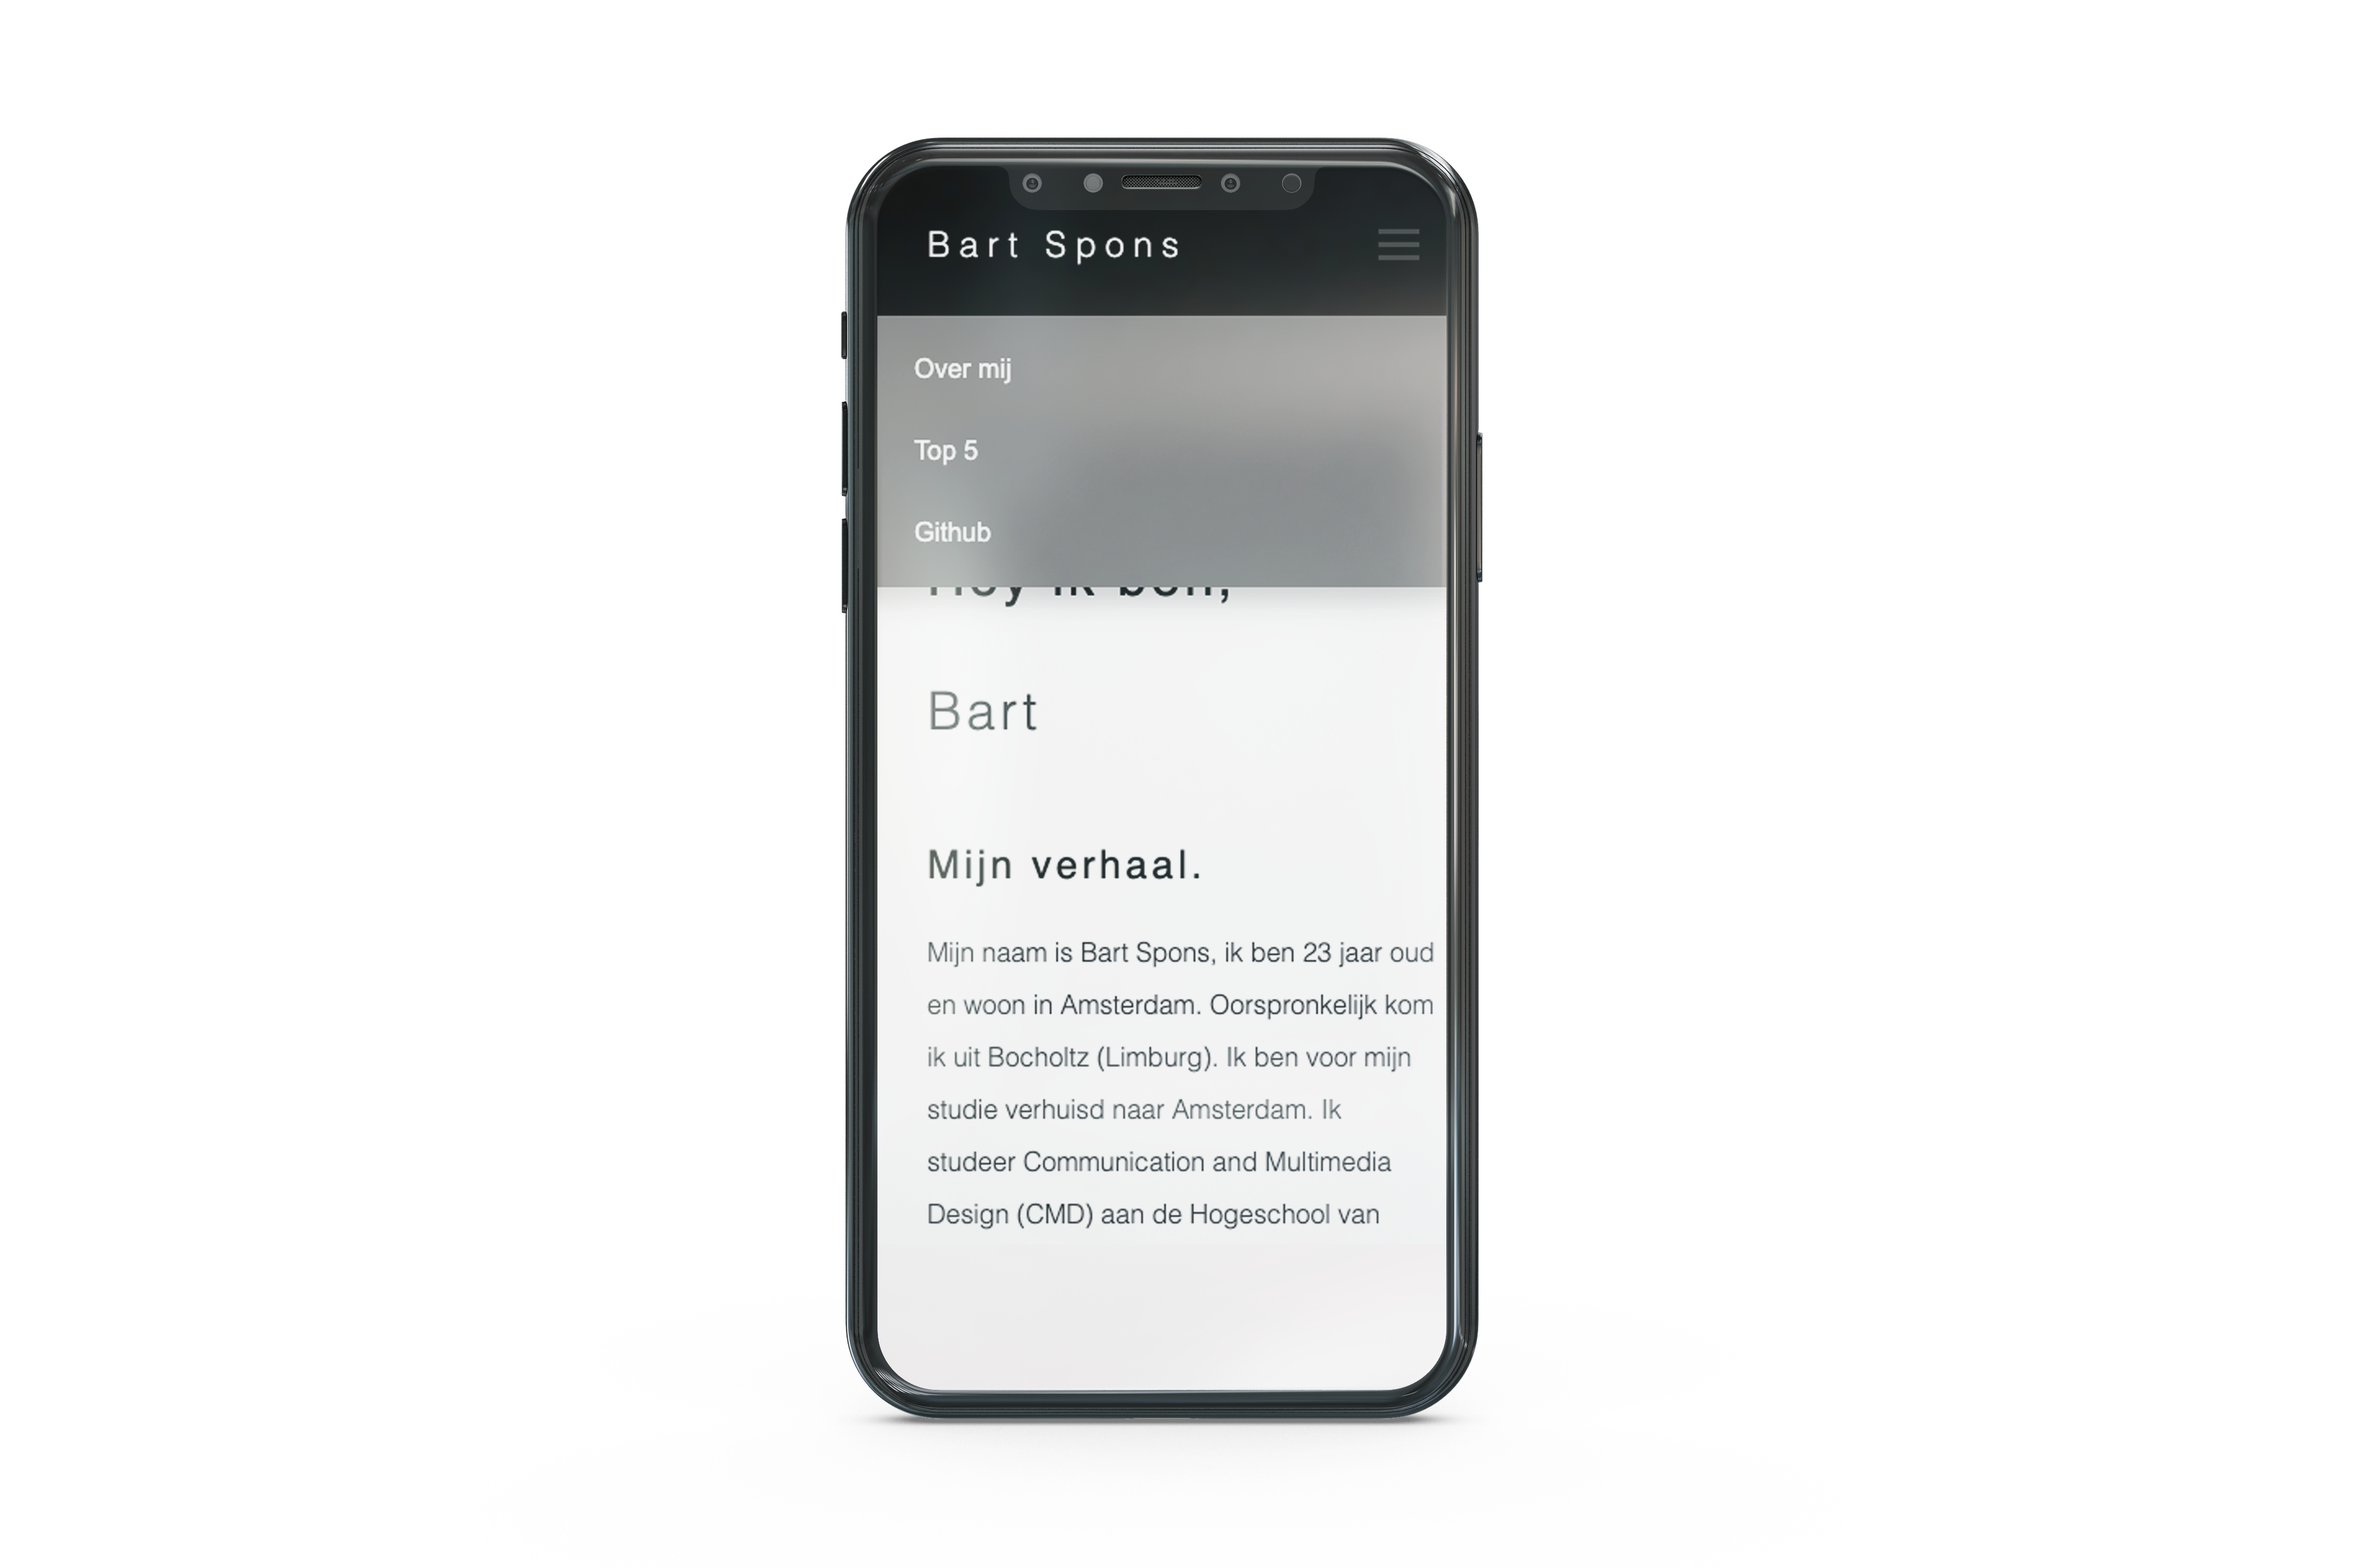
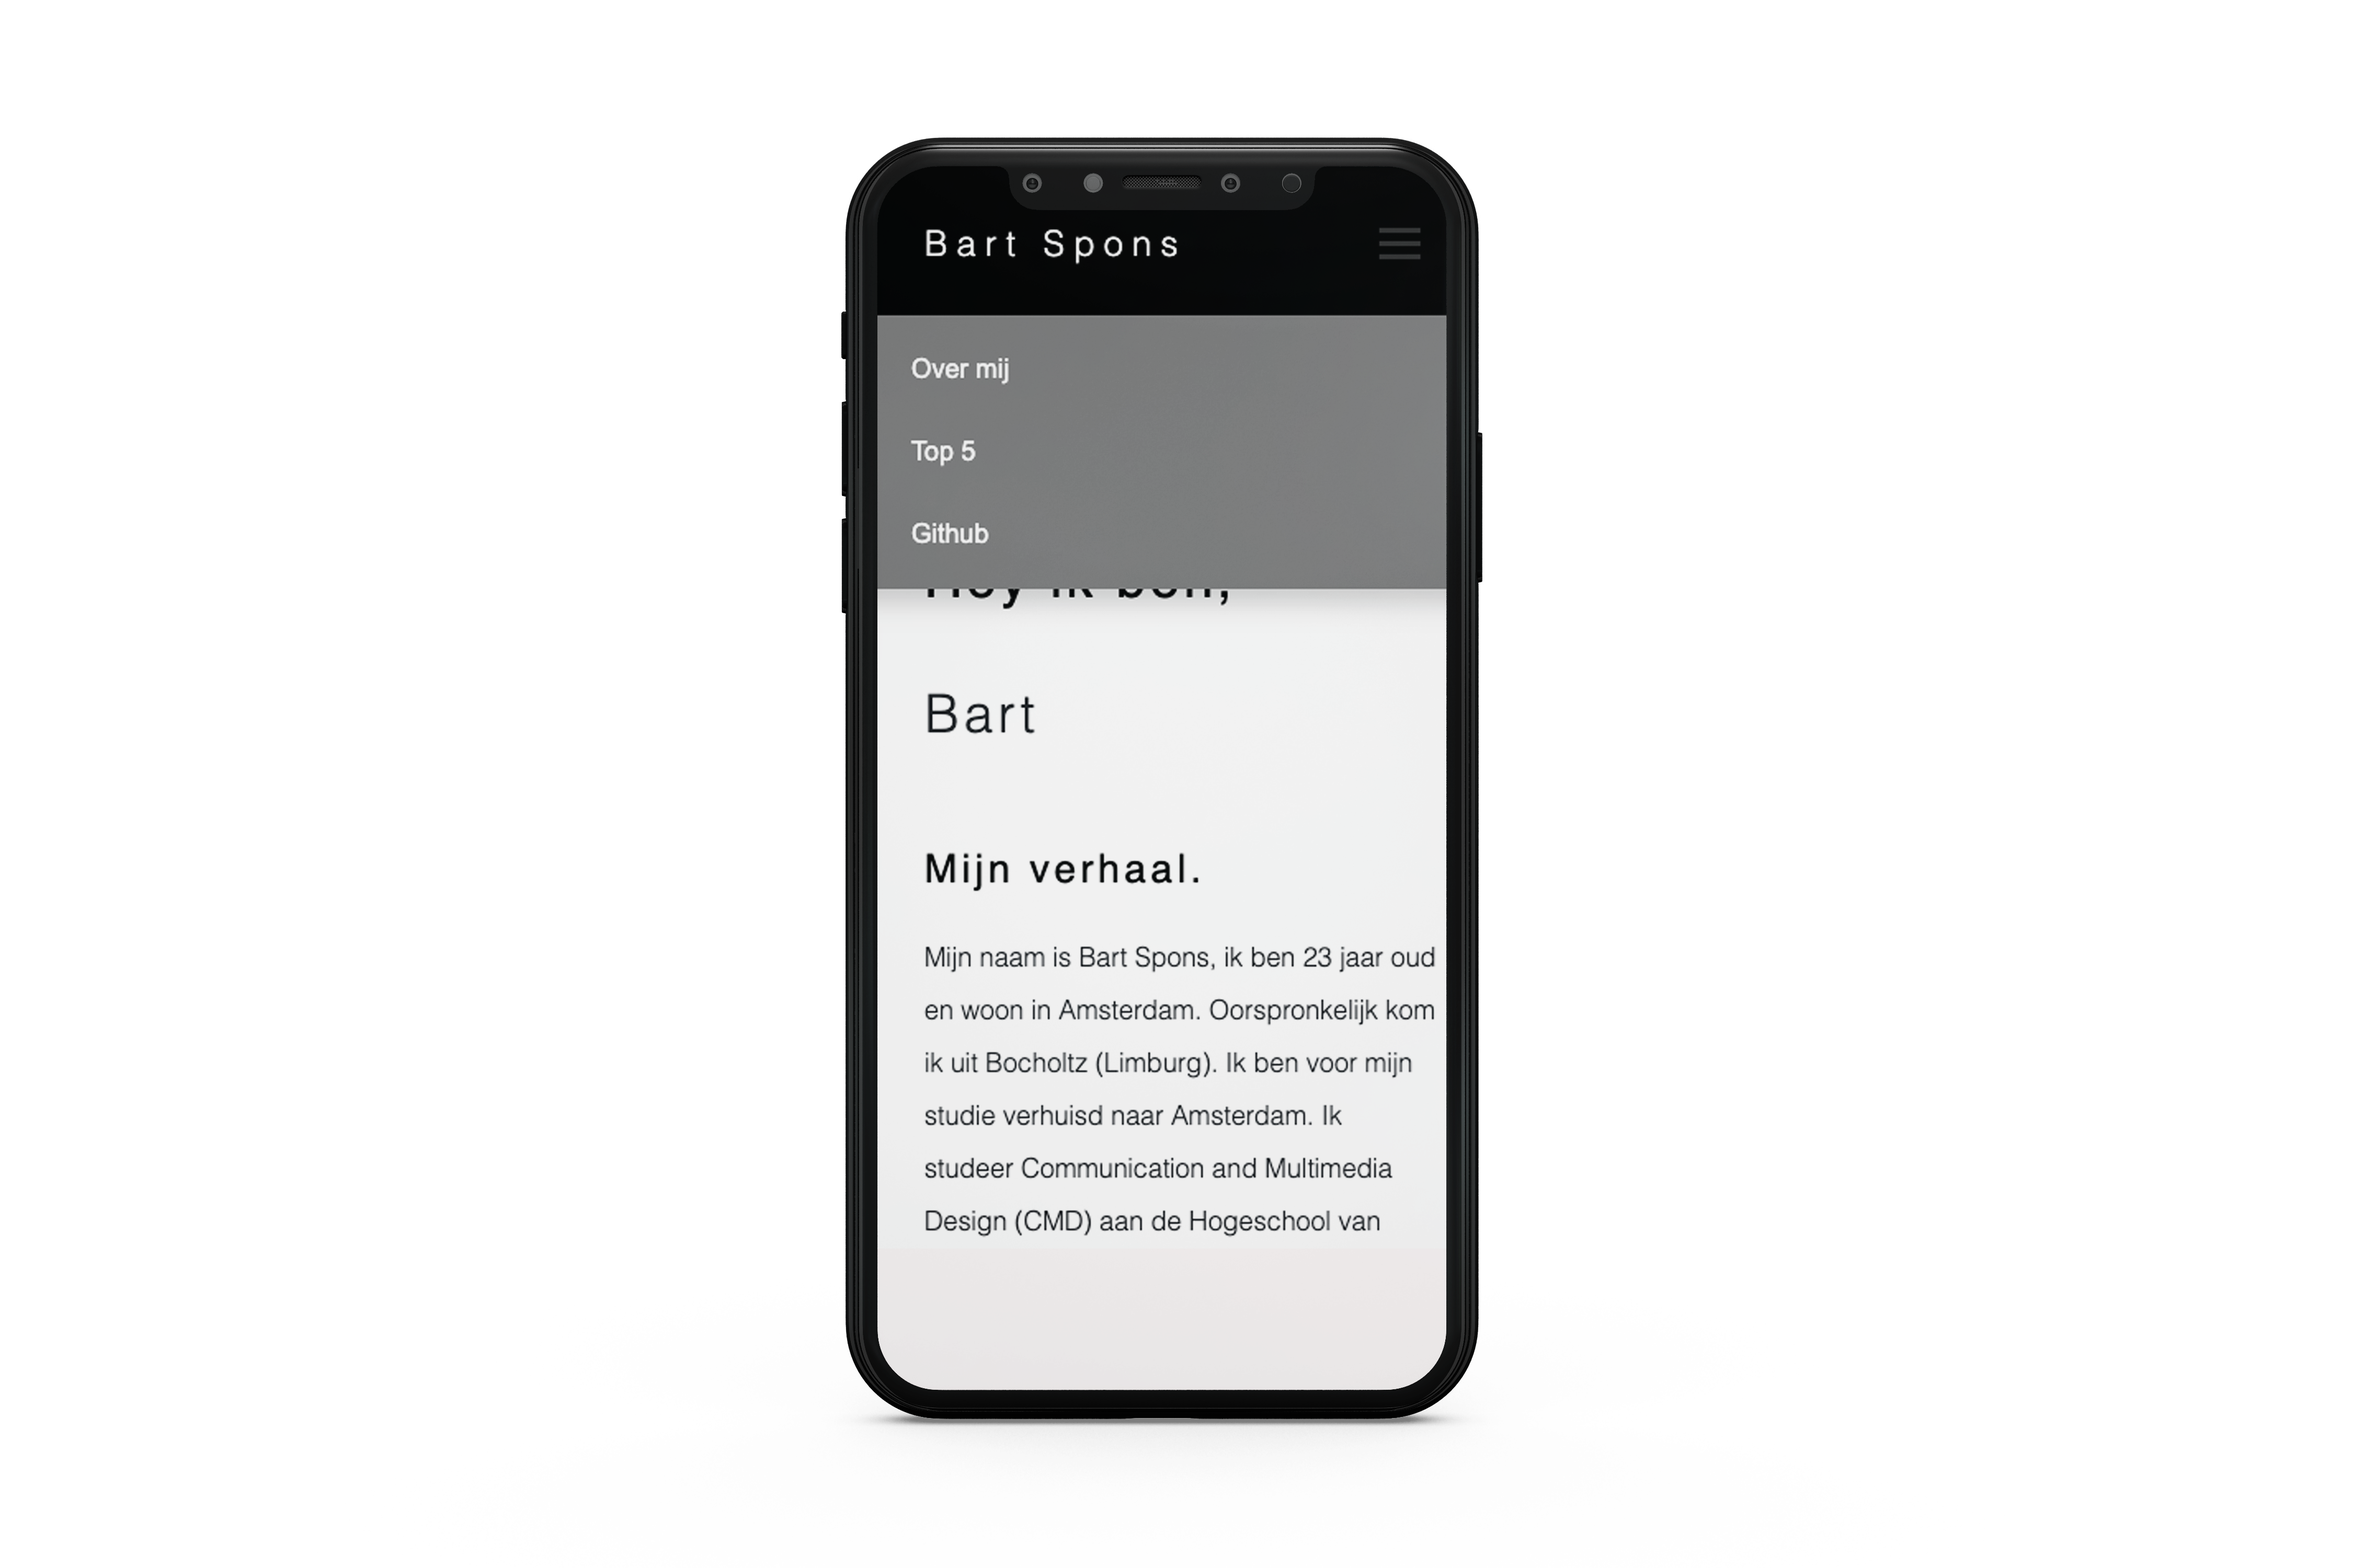
nav

Changed region(s): [[0.3422, 0.062, 0.6533, 0.93]]

diff --git a/README.md b/README.md
@@ -127,7 +127,7 @@ Ik heb in de eerste sectie na de header een grid gemaakt met 2 kolommen. Aan de 
 
 ## Afbeelding nav bar responsive (scherpere afbeelding komt nog)
 Ik heb de navigatie balk helemaal uitgewerkt (ook responsive) en ben hier redelijk tevreden over. Als de website op mobiel formaat gebruikt wordt veranderd de nav bar in een hamburger menu die je kunt openen. Als je over github hoverd dan worden extra opties uitgeklapt. De github pagina over dit project en een over de blog die gaat over de 'weekly nerd', dit zijn gastsprekers die telkens op een woensdag verhalen komen vertellen over zichzelf en hun projecten.
-<img src="./docs/images/navbar.png" alt="Navbar" width="1000"><br>
+<img src="./docs/images/nav.jpg" alt="Navbar" width="1000"><br>
 <img src="./docs/images/navbar2.png" alt="Navbar" width="1000"><br>
 
 # Dag 3
